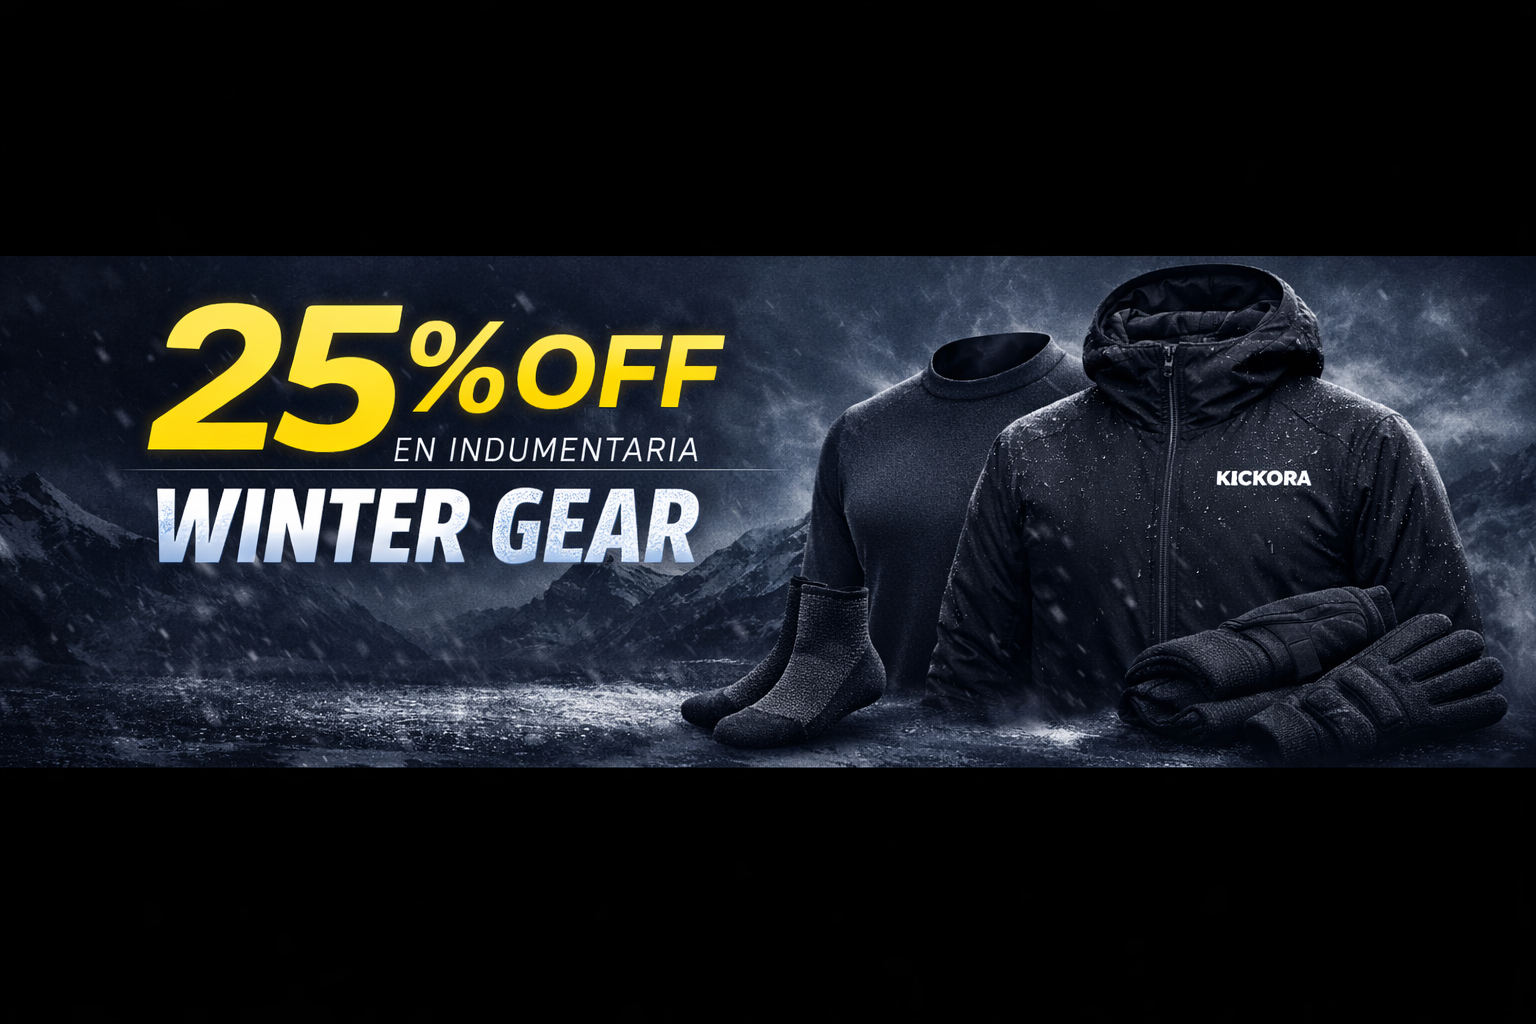
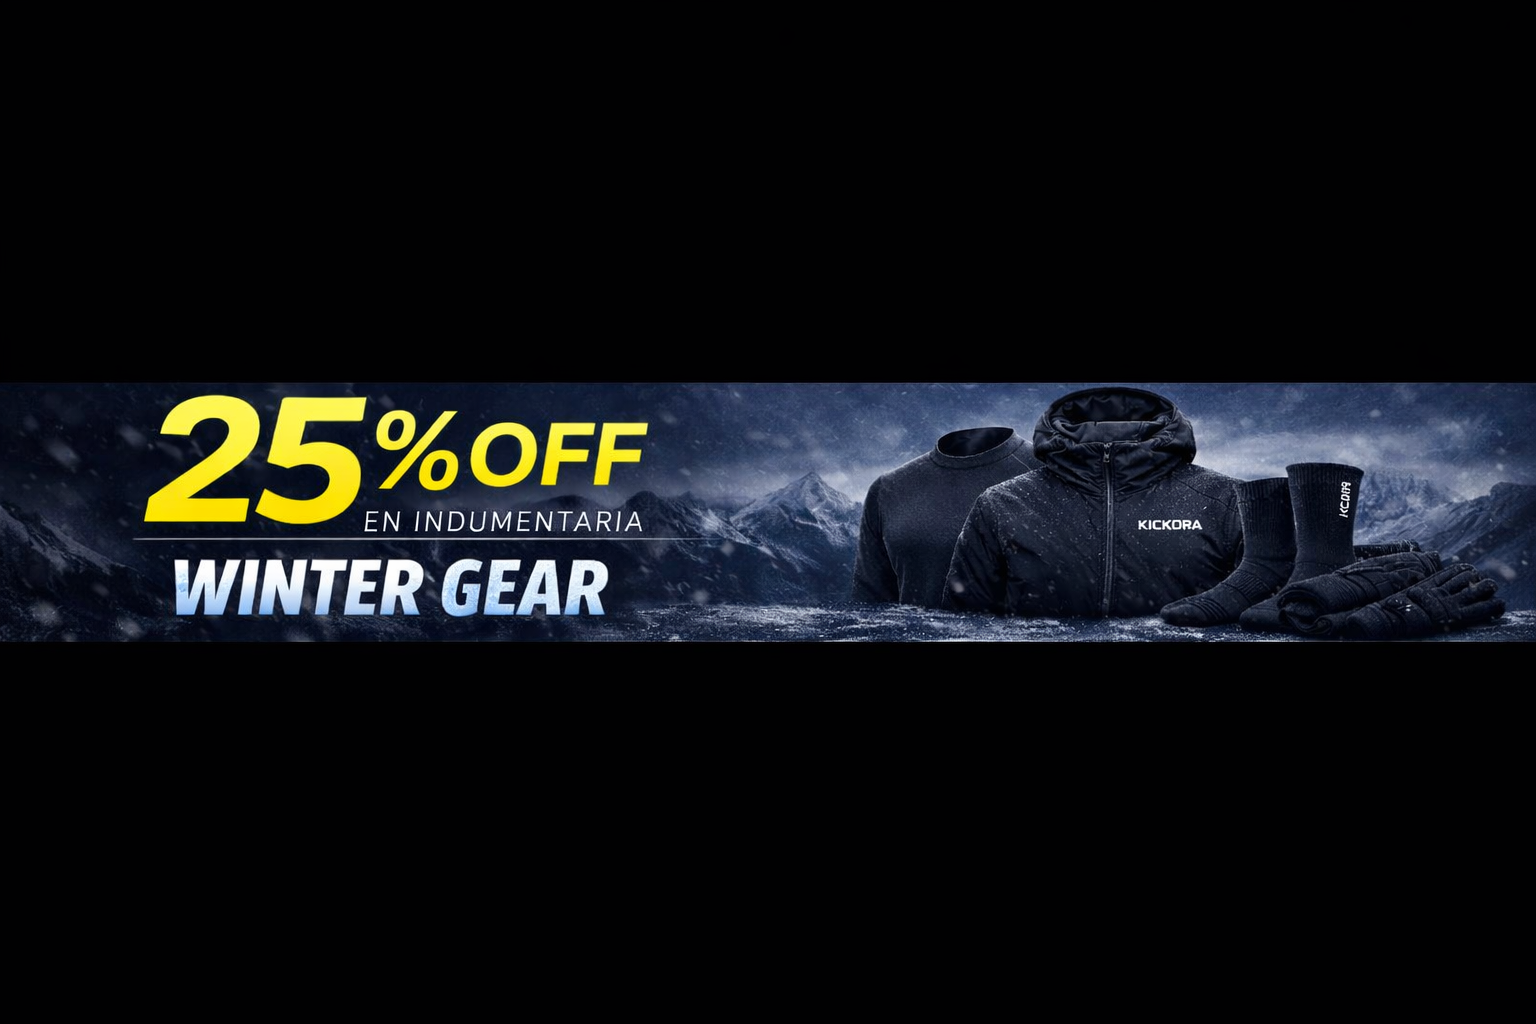
cambie imagenes del carrusel de promocion final

diff --git a/index.html b/index.html
@@ -447,7 +447,7 @@
           <div class="carousel-inner">
             <div class="carousel-item active">
               <img
-                src="./img/camperapromo.png"
+                src="./img/promocamperas.png"
                 class="d-block w-100"
                 alt="camperapromo"
               />
@@ -461,7 +461,7 @@
             </div>
             <div class="carousel-item">
               <img
-                src="./img/mediaspromo.png"
+                src="./img/promomedias.png"
                 class="d-block w-100"
                 alt="mediaspromo"
               />

diff --git a/css/style.css b/css/style.css
@@ -568,6 +568,8 @@ h3,
 }
 /*CAROUSEL DE PROMO FINAL*/
 #promoCarousel .carousel-item img {
-  height: 250px; 
-  object-fit: cover; 
+  width: 100%;
+  height: 45vh;
+  object-fit: cover;
+  object-position: center;
 }
